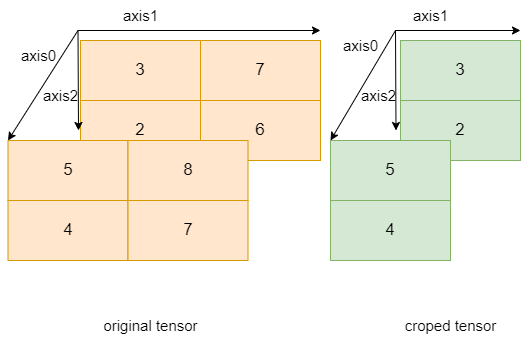
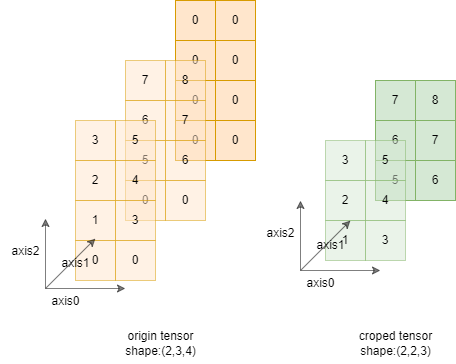
repaint the second example with right axis

diff --git a/docs/api/paddle/crop_cn.rst b/docs/api/paddle/crop_cn.rst
@@ -56,7 +56,7 @@ crop
 
 **示例二图解说明**：
 
-    下图展示了示例二中的情形——一个形状为[2,2,2]的三维张量通过 crop 操作裁剪为形状为[1,2,2]的三维张量，同时保持了张量中元素的顺序和值不变。通过比较，可以清晰地看到张量形状变化前后各元素的对应关系。
+    下图展示了示例二中的情形——一个形状为[2,3,4]的三维张量通过 crop 操作裁剪为形状为[2,2,3]的三维张量，同时保持了张量中元素的顺序和值不变。通过比较，可以清晰地看到张量形状变化前后各元素的对应关系。
 
     .. figure:: ../../images/api_legend/crop.png
        :width: 500
